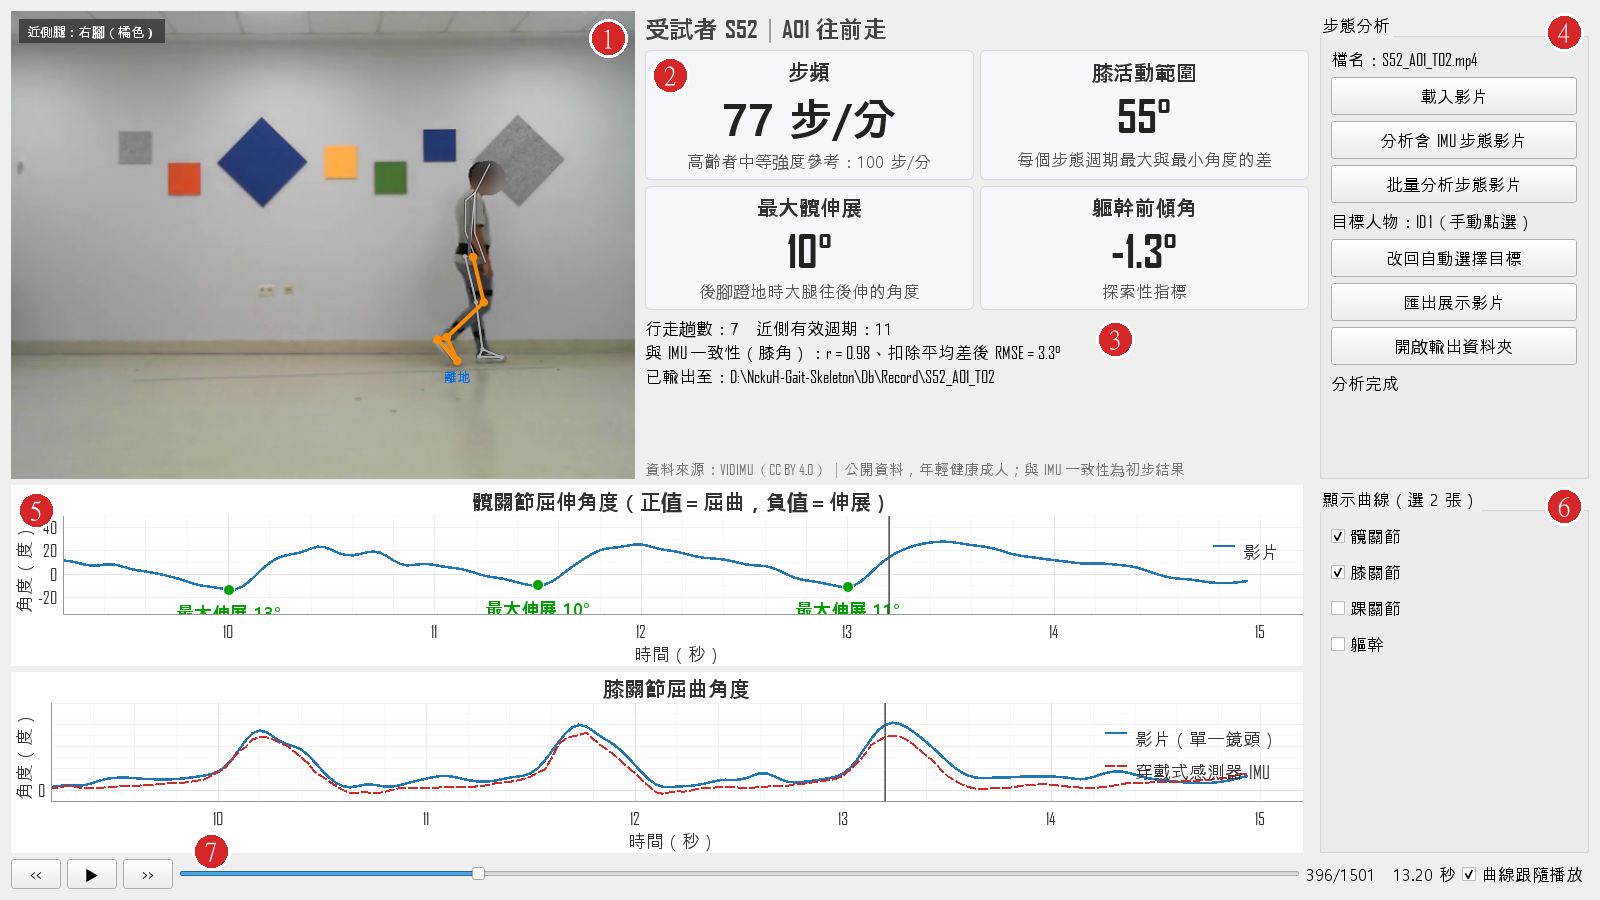
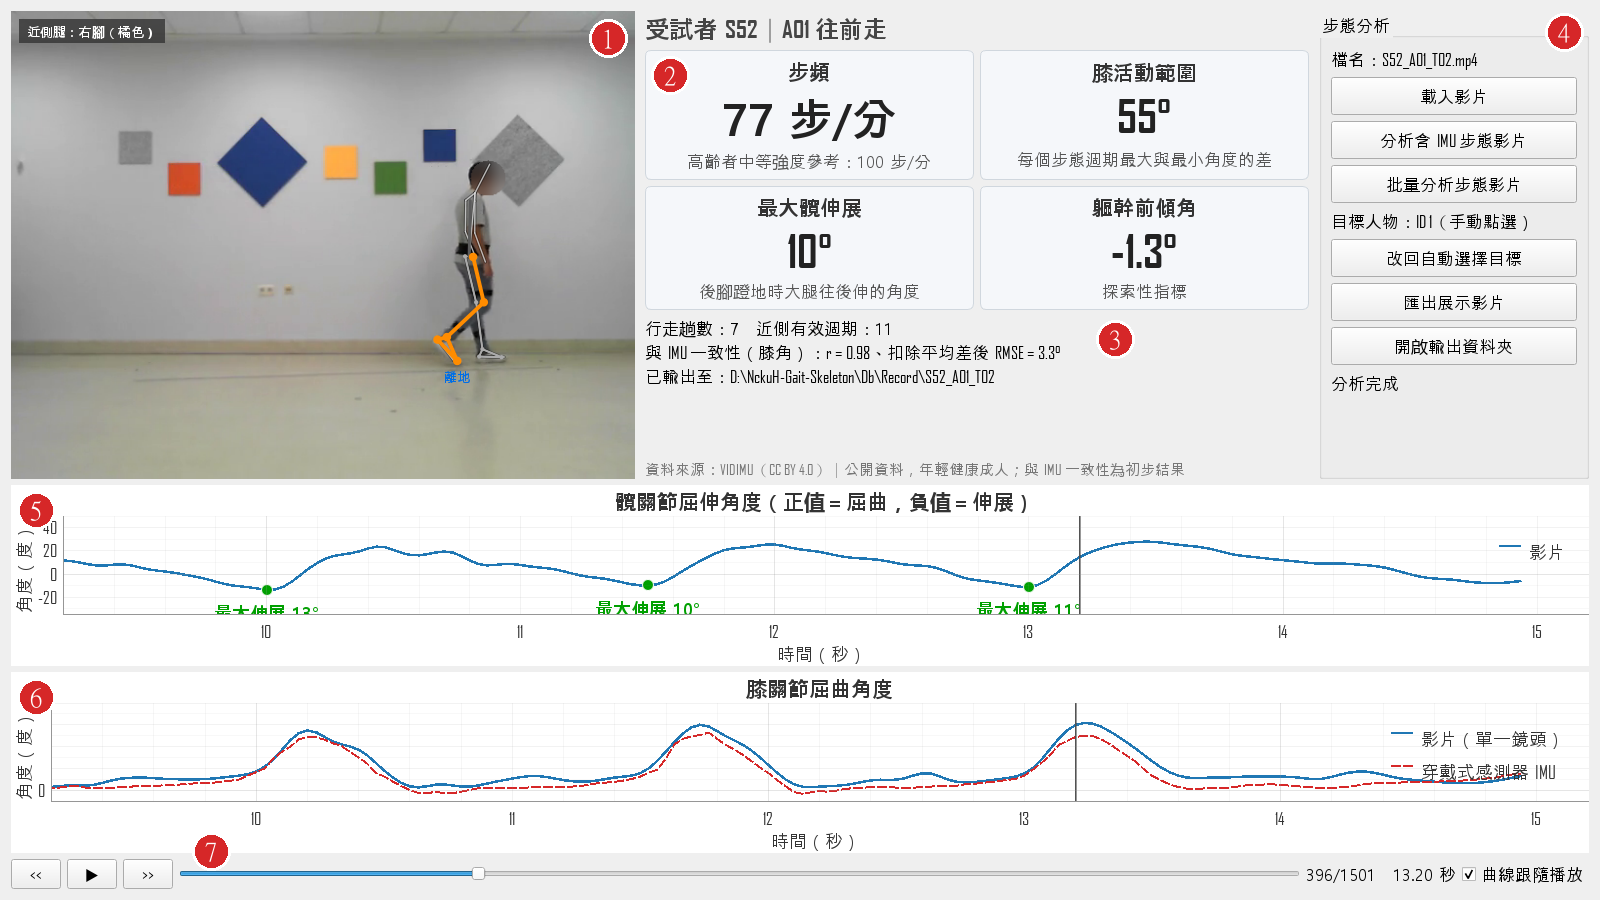
移除踝關節背屈與軀幹前傾曲線；曲線不超過 2 張時不顯示勾選框

diff --git a/tests/test_gait_widget.py b/tests/test_gait_widget.py
@@ -102,31 +102,41 @@ class LayoutTests(unittest.TestCase):           # 合成畫面，不需要資料
         widget = self.show((480, 640), (1600, 900))
         self.assertGreaterEqual(widget.view.width(), 600)            # 1600×900 時影片寬至少 600
 
-    def test_two_curves_shown_and_switching_keeps_sizes(self):
-        # 教授要求：一次只顯示 2 張曲線，右側勾選要看哪 2 張；影片與曲線大小不隨切換改變
+    def test_only_hip_and_knee_without_selector(self):
+        # 目前只有髖、膝 2 張曲線：全部顯示、不需要勾選框，曲線全寬
         widget = self.show((480, 640), (1600, 900))
+        self.assertEqual(list(widget.plots), ['hip', 'knee'])
+        self.assertTrue(all(p.isVisible() for p in widget.plots.values()))
+        self.assertFalse(widget.curvePanel.isVisible())
+        self.assertGreater(widget.hipPlot.width(), widget.width() - 40)
+
+    def test_more_curves_than_shown_adds_selector_and_keeps_sizes(self):
+        # 曲線超過 2 張時一次只顯示 2 張，右側勾選要看哪 2 張；影片與曲線大小不隨切換改變
+        import gait_widget
+        extra = (('c', '曲線 C', 'C', (0, 1)), ('d', '曲線 D', 'D', (0, 1)))
+        with patch.object(gait_widget, 'CURVES', gait_widget.CURVES + extra):
+            widget = self.show((480, 640), (1600, 900))
         shown = lambda: [k for k, p in widget.plots.items() if p.isVisible()]      # noqa: E731
         self.assertEqual(shown(), ['hip', 'knee'])
+        self.assertTrue(widget.curvePanel.isVisible())
+        plot_right = widget.hipPlot.mapTo(widget, widget.hipPlot.rect().topRight()).x()
+        self.assertLess(plot_right, widget.curvePanel.mapTo(widget, widget.curvePanel.rect().topLeft()).x())
         view_size, plot_size = widget.view.size(), widget.hipPlot.size()
-        widget.curveChecks['ankle'].setChecked(True)                  # 勾第 3 張 → 取消最早勾的髖關節
+        widget.curveChecks['c'].setChecked(True)                      # 勾第 3 張 → 取消最早勾的髖關節
         APP.processEvents()
-        self.assertEqual(shown(), ['knee', 'ankle'])
+        self.assertEqual(shown(), ['knee', 'c'])
         self.assertFalse(widget.curveChecks['hip'].isChecked())
         self.assertEqual(widget.view.size(), view_size)
-        self.assertEqual(widget.anklePlot.size(), plot_size)
+        self.assertEqual(widget.plots['c'].size(), plot_size)
         widget.curveChecks['knee'].setChecked(False)                  # 不能只剩 1 張
         APP.processEvents()
         self.assertTrue(widget.curveChecks['knee'].isChecked())
-        self.assertEqual(shown(), ['knee', 'ankle'])
-        widget.curveChecks['trunk'].setChecked(True)
+        self.assertEqual(shown(), ['knee', 'c'])
+        widget.curveChecks['d'].setChecked(True)
         APP.processEvents()
-        self.assertEqual(shown(), ['ankle', 'trunk'])
-
-    def test_curve_selector_sits_right_of_curves(self):
-        widget = self.show((480, 640), (1600, 900))
-        box = widget.curveChecks['hip'].parentWidget()
-        plot_right = widget.hipPlot.mapTo(widget, widget.hipPlot.rect().topRight()).x()
-        self.assertLess(plot_right, box.mapTo(widget, box.rect().topLeft()).x())
+        self.assertEqual(shown(), ['c', 'd'])
+        widget.plots['d'].setXRange(3.0, 9.0, padding=0)              # 隱藏中的曲線時間軸也同步
+        self.assertAlmostEqual(widget.hipPlot.viewRange()[0][0], 3.0, places=2)
 
     def test_curves_keep_minimum_height_in_small_window(self):
         import gait_widget
@@ -210,9 +220,7 @@ class GaitWidgetTests(unittest.TestCase):
         x_min, x_max = widget.hipPlot.viewRange()[0]
         self.assertAlmostEqual(x_max - x_min, 12.0, places=2)
         self.assertAlmostEqual(x_min, 30.0 - 8.0, places=2)   # 游標仍在前 2/3 處
-        for plot in (widget.kneePlot, widget.anklePlot, widget.trunkPlot):       # 隱藏中的曲線也同步
-            self.assertAlmostEqual(plot.viewRange()[0][1] - plot.viewRange()[0][0], 12.0, places=2)
-            self.assertAlmostEqual(plot.viewRange()[0][0], 22.0, places=2)
+        self.assertAlmostEqual(widget.kneePlot.viewRange()[0][1] - widget.kneePlot.viewRange()[0][0], 12.0, places=2)
         widget.onAnalyzed(self.analysis)
         x_min, x_max = widget.hipPlot.viewRange()[0]
         self.assertAlmostEqual(x_max - x_min, 6.0, places=2)

diff --git a/Src/UI_Control/gait_widget.py b/Src/UI_Control/gait_widget.py
@@ -27,11 +27,10 @@ from gait_views import AnglePlot, FrameView, SummaryPanel, VideoRow   # noqa: E4
 FOLLOW_BEFORE_S, FOLLOW_AFTER_S = 4.0, 2.0     # 播放時曲線顯示目前時間前 4 秒、後 2 秒
 TOP_STRETCH, CURVES_STRETCH = 56, 44           # 上排（影片、數字、按鈕）與曲線區固定的高度比例
 PLOT_MIN_HEIGHT = 175                          # 每張曲線圖最小高度（像素），刻度與最大伸展標籤才放得下
-# 可顯示的曲線：(代號, 勾選框文字, 標題, 縱軸範圍)；一次只顯示 SHOWN_CURVES 張，避免每張太小
+# 可顯示的曲線：(代號, 勾選框文字, 標題, 縱軸範圍)；一次只顯示 SHOWN_CURVES 張，避免每張太小。
+# 曲線超過 SHOWN_CURVES 張時，曲線右側才出現勾選框讓使用者選要看哪幾張
 CURVES = (('hip', '髖關節', '髖關節屈伸角度（正值＝屈曲，負值＝伸展）', (-35, 50)),
-          ('knee', '膝關節', '膝關節屈曲角度', (-10, 80)),
-          ('ankle', '踝關節', '踝關節背屈角度（正值＝背屈，負值＝蹠屈）', (-35, 30)),
-          ('trunk', '軀幹', '軀幹前傾角度（正值＝前傾）', (-20, 20)))
+          ('knee', '膝關節', '膝關節屈曲角度', (-10, 80)))
 SHOWN_CURVES = 2
 DEFAULT_CURVES = ('hip', 'knee')
 
@@ -142,7 +141,6 @@ class GaitTabControl(QWidget):
                                  '畫面中有多人時會顯示每個人的框，點選要分析的人即可重算。')
         self.plots = {key: AnglePlot(title, y_range) for key, _, title, y_range in CURVES}
         self.hipPlot, self.kneePlot = self.plots['hip'], self.plots['knee']
-        self.anklePlot, self.trunkPlot = self.plots['ankle'], self.plots['trunk']
         for plot in self.plots.values():
             plot.setMinimumHeight(PLOT_MIN_HEIGHT)      # 小視窗時曲線不被壓扁，改由上排讓出空間
         self.syncingX = False
@@ -232,8 +230,13 @@ class GaitTabControl(QWidget):
             plotsLayout.addWidget(plot)
         curvesRow = QHBoxLayout()
         curvesRow.addLayout(plotsLayout, 1)
-        curvesRow.addSpacing(VideoRow.GAP)
-        curvesRow.addWidget(curvePanel)
+        self.curvePanel = curvePanel
+        if len(CURVES) > SHOWN_CURVES:              # 曲線全部顯示得下時不需要勾選，曲線維持全寬
+            curvesRow.addSpacing(VideoRow.GAP)
+            curvesRow.addWidget(curvePanel)
+        else:
+            curvePanel.setParent(self)
+            curvePanel.hide()
         # 上排與曲線區比例固定；顯示的曲線張數固定，切換曲線時每張大小不變
         layout = QVBoxLayout(self)
         layout.addWidget(self.topRow, TOP_STRETCH)
@@ -486,8 +489,6 @@ class GaitTabControl(QWidget):
         if renderer.imu_knee is not None:
             knee.append((renderer.imu_knee, IMU_COLOR, 2, '穿戴式感測器 IMU', True))
         self.kneePlot.setSeries(times, knee)
-        self.anklePlot.setSeries(times, [(renderer.ankle, VIDEO_COLOR, 2.5, '影片', False)])
-        self.trunkPlot.setSeries(times, [(renderer.trunk, VIDEO_COLOR, 2.5, '影片', False)])
         self.summaryPanel.setValues(analysis.values)
         self.headerLabel.setText(analysis.header)
         self.footerLabel.setText(VIDIMU_FOOTER if analysis.trial is not None else '')

diff --git a/Src/gait_analysis/render_demo.py b/Src/gait_analysis/render_demo.py
@@ -186,8 +186,6 @@ class DemoRenderer:
         self.footer = footer
         self.hip = near_series(result, {s: result.angles[s]['hip'] for s in ('L', 'R')})
         self.knee = near_series(result, {s: result.angles[s]['knee'] for s in ('L', 'R')})
-        self.ankle = near_series(result, {s: result.angles[s]['ankle'] for s in ('L', 'R')})
-        self.trunk = near_series(result, {s: result.angles[s]['trunk'] for s in ('L', 'R')})
         self.near_by_frame = near_side_by_frame(result.passes)
 
         strides = result.strides

diff --git a/README.md b/README.md
@@ -249,17 +249,17 @@ python Src\UI_Control\main.py
 | 2 | 數字面板 | 步頻、膝活動範圍、最大髖伸展、軀幹前傾角，上方為受試者與動作 |
 | 3 | 分析摘要 | 行走趟數、近側有效週期數；有 IMU 時顯示膝角一致性（r、扣平均差 RMSE）；輸出位置與警告。最下方為資料來源註記（VIDIMU 影片才有） |
 | 4 | 功能按鈕 | 檔名、各功能按鈕、目標人物、分析進度與狀態 |
-| 5 | 曲線（一次 2 張） | 依右側勾選顯示 2 張近側腿角度曲線，預設為髖、膝：**髖關節**屈伸（正值屈曲、負值伸展，綠點標出每個週期的最大伸展）、**膝關節**屈曲（有 IMU 時疊紅色虛線）、**踝關節**背屈（正值背屈、負值蹠屈）、**軀幹**前傾（正值前傾） |
-| 6 | 顯示曲線勾選 | 勾選要看的 2 張曲線；勾第 3 張時自動取消最早勾的那張，曲線張數與大小固定不變 |
+| 5 | 髖角曲線 | 近側腿髖關節屈伸角度（正值屈曲、負值伸展），綠點標出每個週期的最大伸展 |
+| 6 | 膝角曲線 | 近側腿膝關節屈曲角度；有 IMU 時疊紅色虛線 |
 | 7 | 播放控制 | `<<`、`▶`、`>>`、進度條、目前格數與秒數、「曲線跟隨播放」 |
 
-曲線與進度條上下對齊同一條時間軸，灰色直線是目前時間。畫面直接以 Qt 繪製，任何視窗大小都保持清晰；上排與曲線區的高度比例固定（約 56：44），切換曲線時影片與曲線大小都不會變。
+曲線與進度條上下對齊同一條時間軸，灰色直線是目前時間。畫面直接以 Qt 繪製，任何視窗大小都保持清晰；上排與曲線區的高度比例固定（約 56：44），影片與曲線的大小不能拖曳調整。
 
 ### 操作
 
 1. **載入影片**：選擇側拍行走影片（對話框預設開在 `Db/Record`）。程式在背景萃取關節點並計算指標，進度條顯示萃取進度；可按「取消」中止。萃取過的影片有快取（`Db/Record/_cache/keypoints/`），再次載入會直接讀取。分析後原始影片會複製一份到 `Db/Record/{影片名稱}/`，之後直接從那裡載入即可（同樣讀快取，VIDIMU 影片也照樣疊 IMU）。匯出的展示影片（`_demo.mp4`）與骨架影片（`_Sk26.mp4`）畫面已疊上圖表，程式會拒絕載入並提示原始影片
 2. **播放與瀏覽曲線**：可用 `<<`、`▶`、`>>`、進度條，或鍵盤 `A`／`D` 逐格、空白鍵播放／暫停；**在曲線上拖曳時間游標或點擊**可跳到該時間。勾選「曲線跟隨播放」時曲線預設顯示目前時間前 4 秒、後 2 秒，用滑鼠滾輪縮放後會保持該寬度跟著播放；取消勾選可自由縮放、拖曳平移整段曲線
-3. **看結果**：數字面板（②）與分析摘要（③）在載入後立即更新；有 IMU 的 VIDIMU 影片可直接對照膝角曲線（⑤）的藍線與紅色虛線
+3. **看結果**：數字面板（②）與分析摘要（③）在載入後立即更新；有 IMU 的 VIDIMU 影片可直接對照膝角曲線（⑥）的藍線與紅色虛線
 4. **匯出展示影片**：輸出 1280×720 MP4，並在同一位置輸出數字面板（`_panel.png`），有 IMU 時另輸出膝角疊圖（`_knee_overlay.png`）。預設位置 `Db/Record/{影片名稱}/{影片名稱}_demo.mp4`
 5. **開啟輸出資料夾**：開啟 `Db/Record/{影片名稱}/`
 6. **點選目標人物**：畫面中有兩人以上時，每個人都會畫出框與追蹤 ID（目標為橘色實線，其他人白色虛線）。點某個人的框就改以他為目標重算指標並重畫 `_Sk26.mp4`，選擇會記住，下次載入同一支影片沿用。按「**改回自動選擇目標**」回到自動（每格取畫面中最大、且與上一格位置連續的人；VIDIMU 這類單人影片不需要點選）
